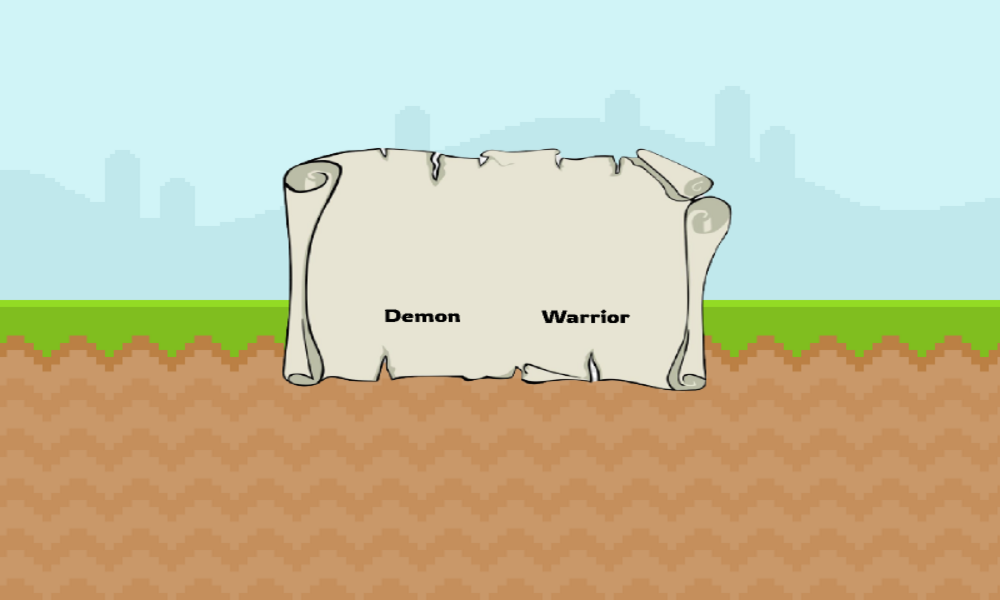
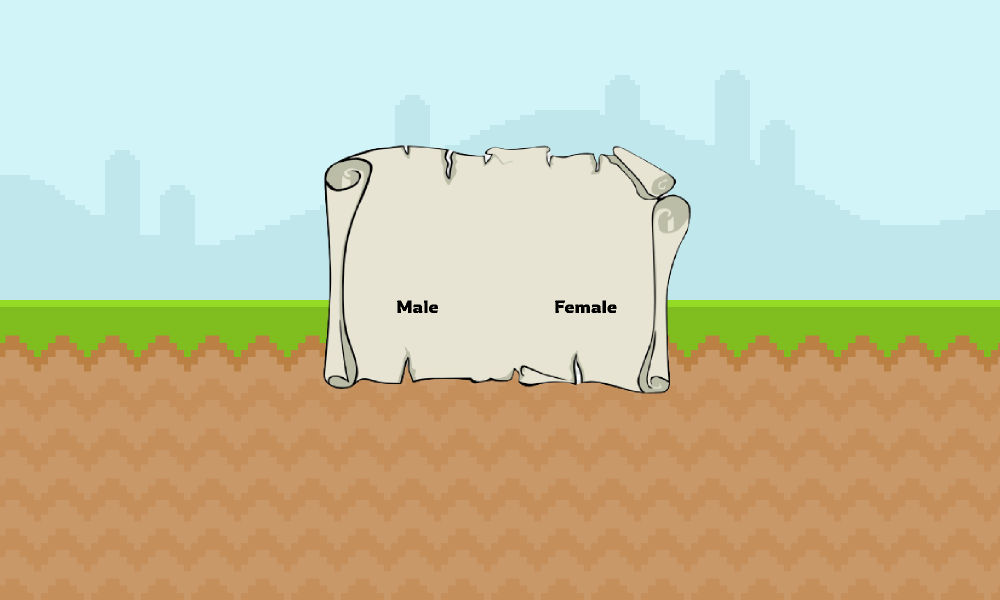
GUI updates

Changed region(s): [[0.0, 0.24, 0.744, 0.66], [0.775, 0.54, 0.992, 0.63]]

diff --git a/characterSelect.py b/characterSelect.py
@@ -16,8 +16,8 @@ screen = pygame.display.set_mode((SCREEN_WIDTH,SCREEN_HEIGHT))
 
 
 TEXT_CHARACTER_SELECTED = "Character Select"
-TEXT_DEMON_SELECTED = "Demon Selected"
-TEXT_WARRIOR_SELECTED = "Warrior Selected"
+TEXT_Male_SELECTED = "Male Selected"
+TEXT_Female_SELECTED = "Female Selected"
 TEXT_NO_OPTION_SELECTED = "Invalid Selection"
 TEXT_ERROR = 'FB Access Failed'
 
@@ -29,31 +29,31 @@ def characterSelect(pageNum):
     running = True
     click = False
     background_surface = pygame.image.load("Image/characterSelect/background.png").convert()
-    demonImage = pygame.image.load("Image/characterSelect/img0.png").convert_alpha()
-    warriorImage = pygame.image.load("Image/characterSelect/img1.png").convert_alpha()
+    femaleImage = pygame.image.load("Image/characterSelect/female.png").convert_alpha()
+    maleImage = pygame.image.load("Image/characterSelect/male.png").convert_alpha()
     confirmImage = pygame.image.load("Image/characterSelect/img2.png").convert_alpha()
 
     TEXT_OPTION=TEXT_CHARACTER_SELECTED
 
     while running:
         screen.blit(background_surface, (0, 0))
-        btn_warrior = assets.Button(screen=screen,id='warrior',image=warriorImage,scale=1,x=550,y=212)
-        btn_demon = assets.Button(screen=screen,id='demon',image=demonImage,scale=1,x=390,y=218)
-        btn_confirm = assets.Button(screen=screen,id='confirm',image=confirmImage,scale=1,x=460,y=331)
+        btn_male = assets.Button(screen=screen,id='Male',image=maleImage,scale=1,x=360,y=212)
+        btn_female = assets.Button(screen=screen,id='Female',image=femaleImage,scale=1,x=520,y=212)
+        btn_confirm = assets.Button(screen=screen,id='confirm',image=confirmImage,scale=1,x=460,y=338)
 
         
         assets.create_text(screen,TEXT_OPTION,assets.SMALL_FONT,assets.COLOR_BLACK,430,185)
 
         for event in pygame.event.get():
-            if btn_warrior.draw():
-                TEXT_OPTION = TEXT_WARRIOR_SELECTED 
-                CHAR_SELECT = "Warrior"
+            if btn_male.draw():
+                TEXT_OPTION = TEXT_Male_SELECTED 
+                CHAR_SELECT = "Male"
                 
                 
             
-            if btn_demon.draw():
-                TEXT_OPTION = TEXT_DEMON_SELECTED 
-                CHAR_SELECT = "Demon"
+            if btn_female.draw():
+                TEXT_OPTION = TEXT_Female_SELECTED 
+                CHAR_SELECT = "Female"
                 
             
             if(btn_confirm.draw()):
